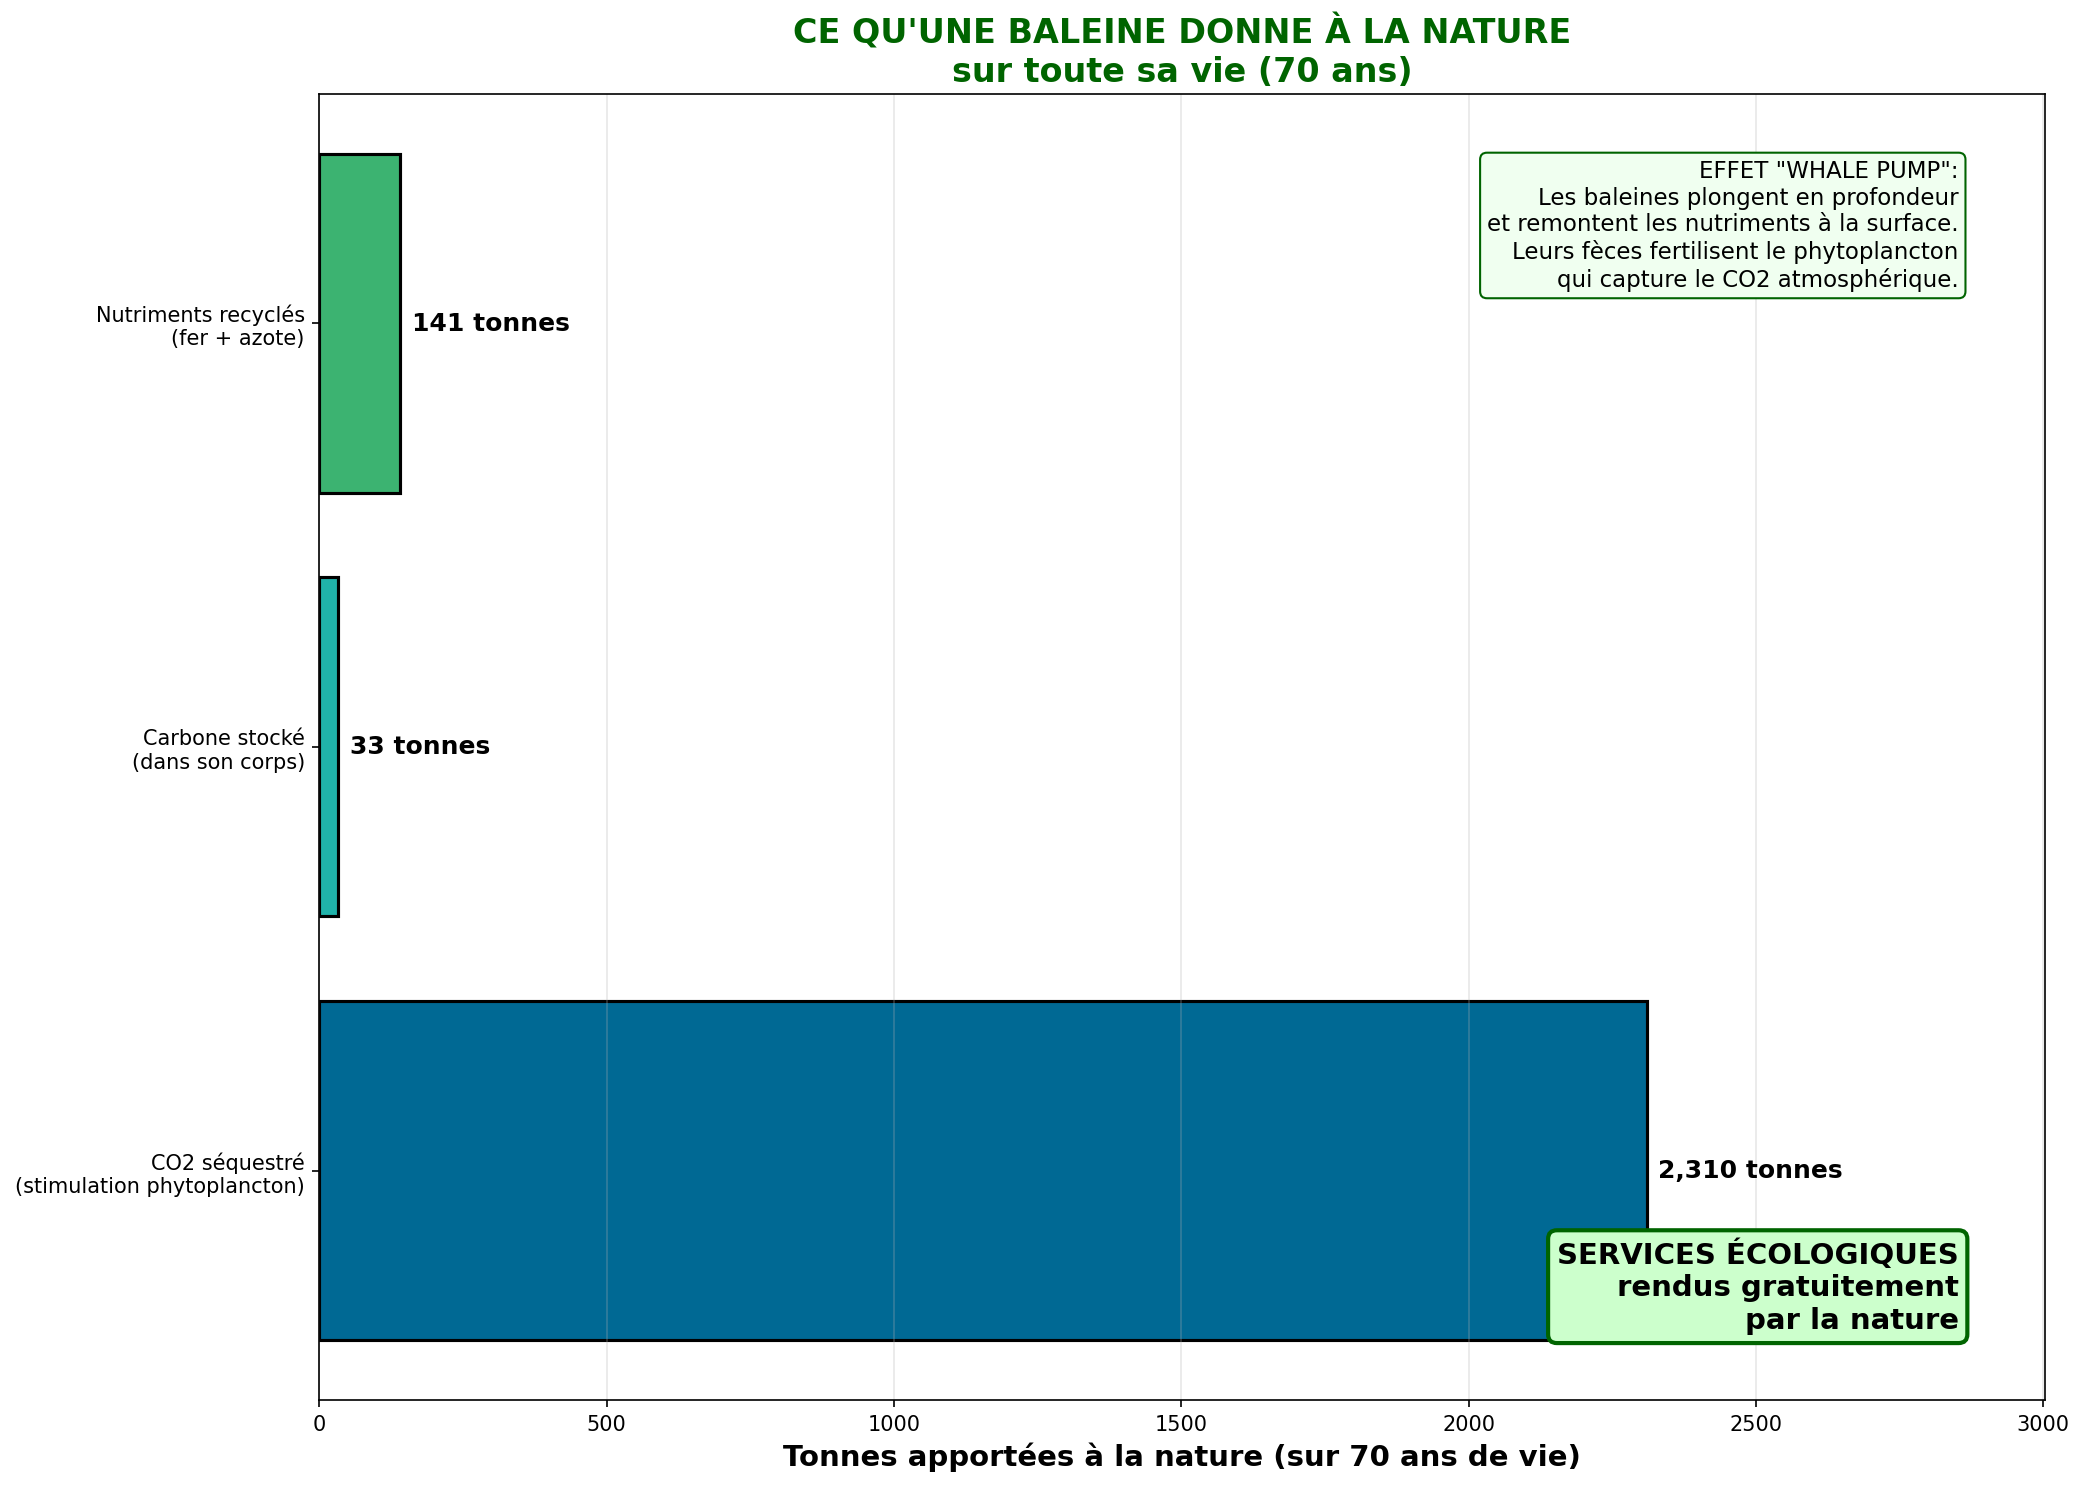
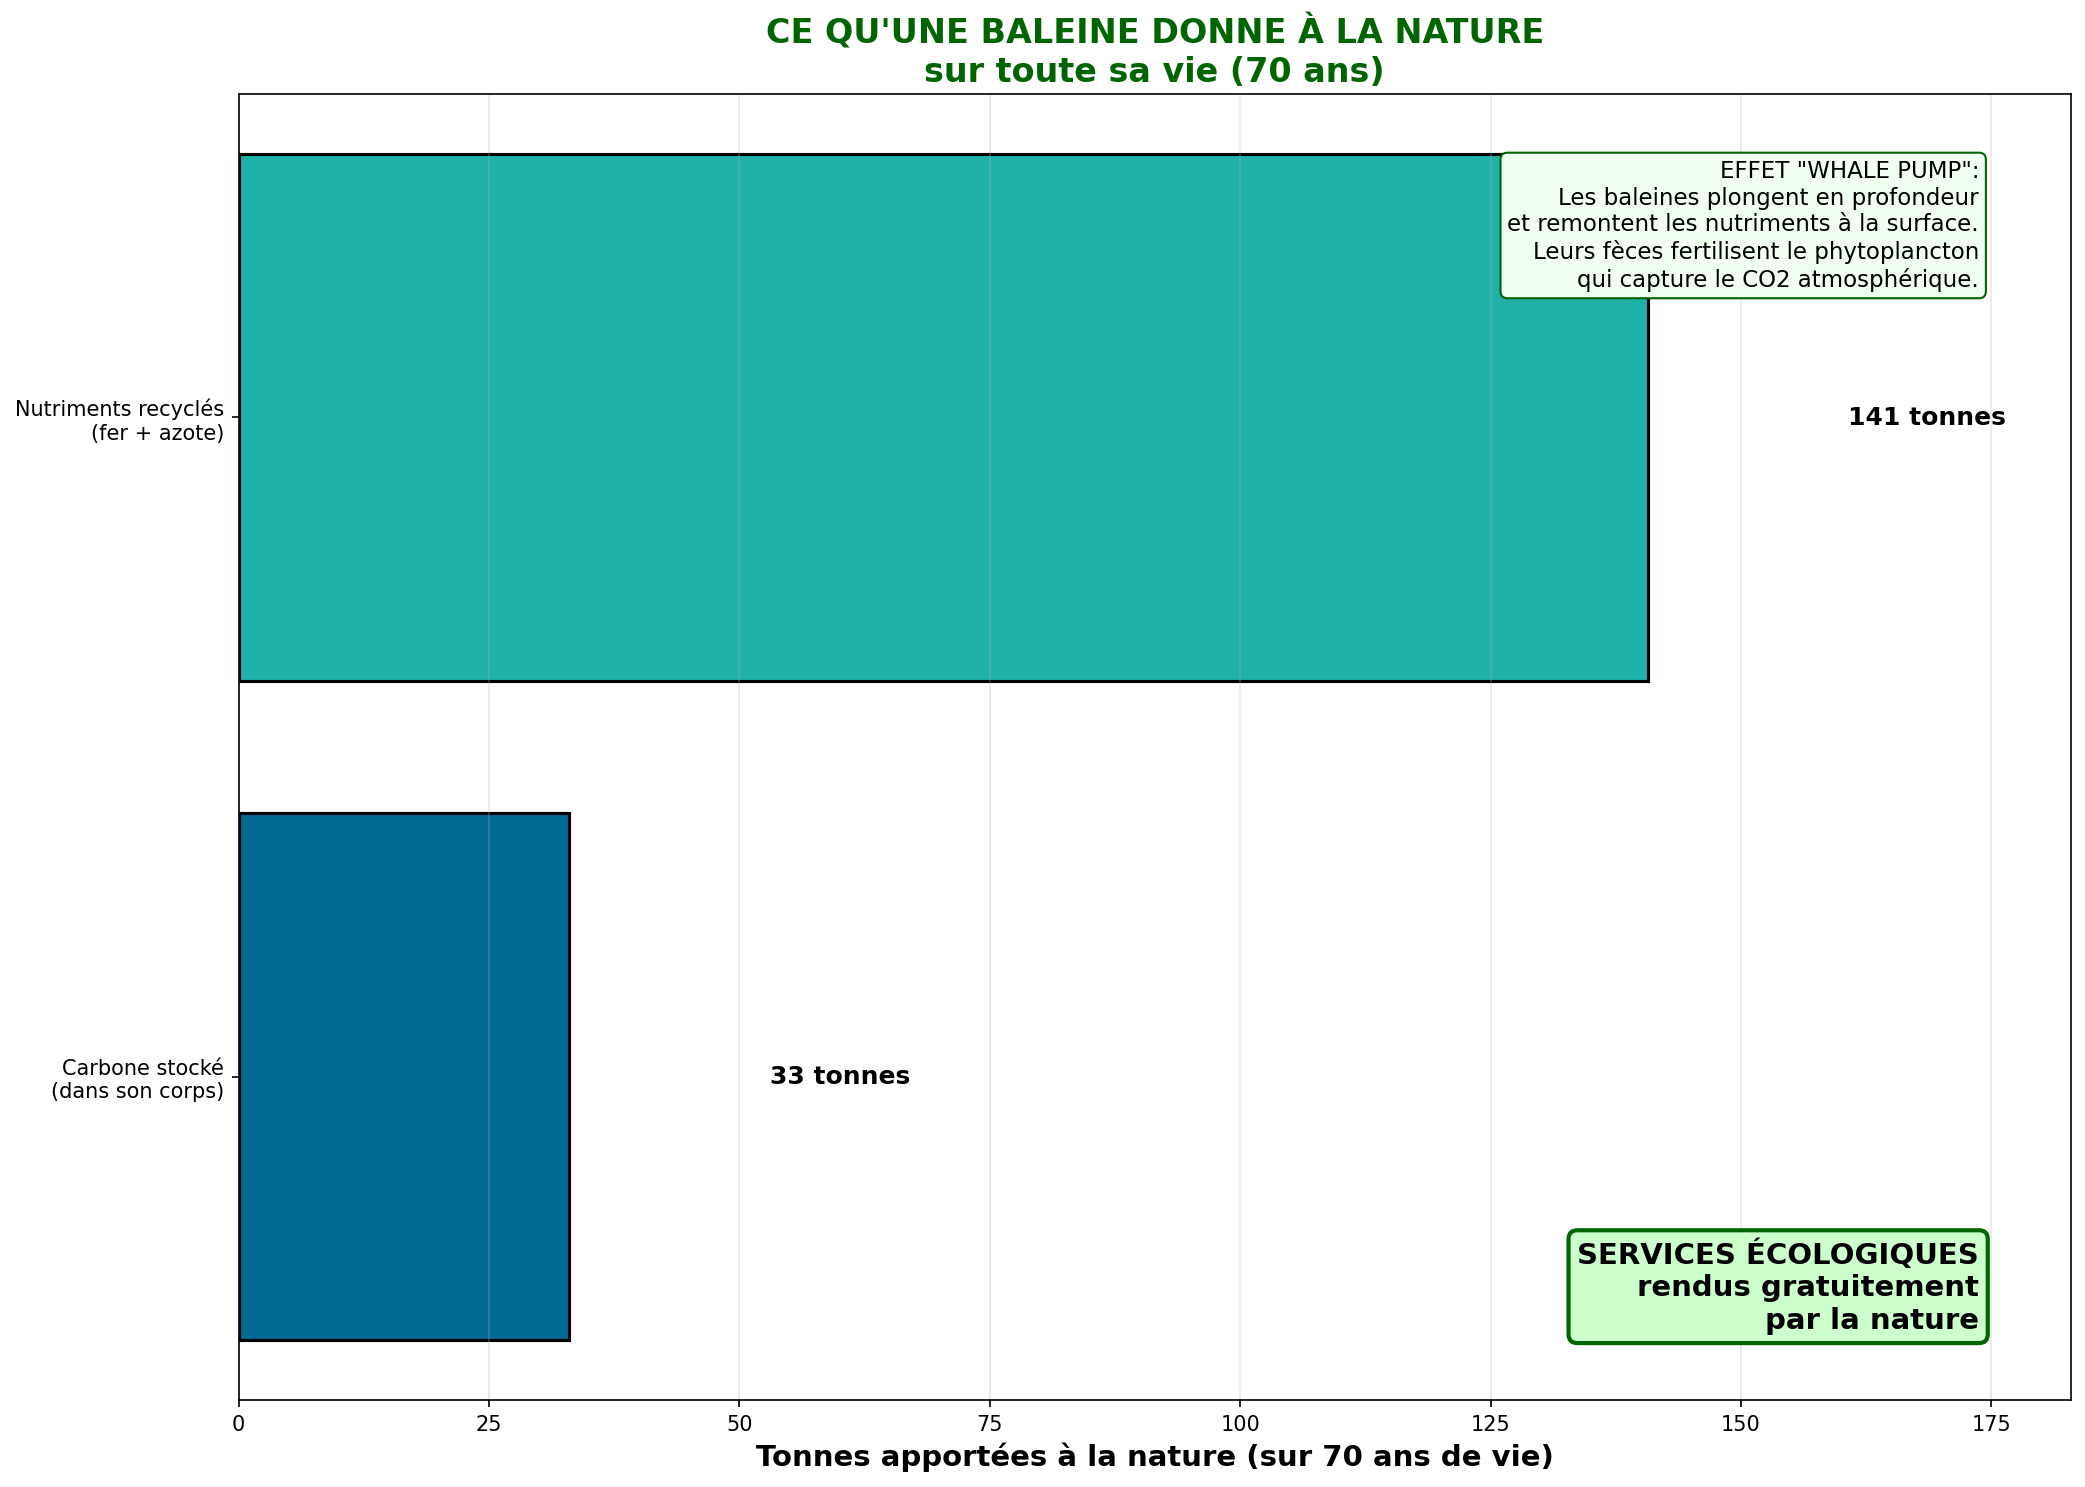
Corrige le calcul errone voiture vs baleine (385 -> 5,5 voitures)
Les 33 tonnes de carbone stocke par une baleine (IMF, Chami et al. 2019)
etaient un total sur toute la vie, pas un taux annuel x 70 ans comme
affiche precedemment. Ratio correct : 33 000 kg / 6 000 kg = 5,5
voitures. Conclusion reecrite (1,3M baleines, 43 Mt stockees vs 37,4 Gt
d'emissions mondiales annuelles) et encart de correction ajoute en bas
de page.

diff --git a/voiture_baleine.html b/voiture_baleine.html
@@ -8,13 +8,13 @@
     <meta name="robots" content="index, follow">
     <meta property="og:type" content="article">
     <meta property="og:site_name" content="Climat & Environnement">
-    <meta property="og:title" content="Voiture vs Baleine - 1 baleine = 385 voitures en CO2">
-    <meta property="og:description" content="Une baleine capture autant de CO2 que 385 voitures sur sa vie. Comparaison de l'impact ecologique industrie vs nature.">
+    <meta property="og:title" content="Voiture vs Baleine - 1 baleine = 5,5 voitures en CO2">
+    <meta property="og:description" content="Une baleine compense le CO2 de fabrication d'environ 5,5 voitures sur sa vie. Comparaison de l'impact ecologique industrie vs nature.">
     <meta property="og:url" content="https://gaby-ridaya.github.io/Climat/voiture_baleine.html">
     <meta property="og:image" content="https://gaby-ridaya.github.io/Climat/images/graph3_comparaison.png">
     <meta name="twitter:card" content="summary_large_image">
-    <meta name="twitter:title" content="Voiture vs Baleine - 1 baleine = 385 voitures en CO2">
-    <meta name="twitter:description" content="Une baleine capture autant de CO2 que 385 voitures sur sa vie. Comparaison de l'impact ecologique industrie vs nature.">
+    <meta name="twitter:title" content="Voiture vs Baleine - 1 baleine = 5,5 voitures en CO2">
+    <meta name="twitter:description" content="Une baleine compense le CO2 de fabrication d'environ 5,5 voitures sur sa vie. Comparaison de l'impact ecologique industrie vs nature.">
     <meta name="twitter:image" content="https://gaby-ridaya.github.io/Climat/images/graph3_comparaison.png">
     <link rel="canonical" href="https://gaby-ridaya.github.io/Climat/voiture_baleine.html">
     <link rel="stylesheet" href="style.css">
@@ -60,7 +60,7 @@
 
                 <div class="warning-box">
                     <strong>Chiffre cle :</strong> Une baleine, sur sa vie de 70 ans, compense
-                    le CO2 de fabrication de <strong>385 voitures</strong>.
+                    le CO2 de fabrication d'environ <strong>5,5 voitures</strong>.
                 </div>
             </section>
 
@@ -151,12 +151,8 @@
                             <td>33 tonnes par baleine</td>
                         </tr>
                         <tr>
-                            <td>CO2 capture (vie entiere)</td>
-                            <td>2 310 tonnes</td>
-                        </tr>
-                        <tr>
                             <td>Valeur economique estimee</td>
-                            <td>2 millions USD</td>
+                            <td>2 millions USD (carbone, ecotourisme et peche, sur la vie entiere - methode IMF)</td>
                         </tr>
                         <tr>
                             <td>Stimulation phytoplancton</td>
@@ -182,9 +178,12 @@
                     <strong>Calcul :</strong>
                     <ul style="margin-top: 10px; margin-left: 20px;">
                         <li>CO2 fabrication voiture : 6 000 kg</li>
-                        <li>CO2 capture par baleine (70 ans) : 2 310 000 kg</li>
-                        <li>Ratio : 2 310 000 / 6 000 = <strong>385 voitures</strong></li>
+                        <li>Carbone stocke par une baleine (vie entiere, corps) : 33 000 kg</li>
+                        <li>Ratio : 33 000 / 6 000 = <strong>5,5 voitures</strong></li>
                     </ul>
+                    <p style="margin-top: 10px;">
+                        Avec l'hypothese haute de 8 tonnes de CO2 par voiture (ADEME), le ratio tombe a 4,1 voitures.
+                    </p>
                 </div>
             </section>
 
@@ -206,20 +205,37 @@
                 <h2>Le message</h2>
 
                 <div class="success-box">
-                    <strong>Conclusion :</strong> Plutot que de fabriquer toujours plus de voitures,
-                    proteger les baleines et les ecosystemes marins serait bien plus efficace
-                    pour lutter contre le changement climatique. La nature offre des solutions
-                    gratuites et auto-entretenues.
+                    <strong>Conclusion :</strong> Il reste aujourd'hui environ 1,3 million de grandes
+                    baleines sur Terre (IMF, Chami et al., 2019). Leur carbone stocke represente au
+                    total environ 43 millions de tonnes de CO2 (1,3 million x 33 tonnes). Face aux
+                    37,4 milliards de tonnes de CO2 fossile emises chaque annee dans le monde (Global
+                    Carbon Project, 2024), ce stock ne pese presque rien : proteger les baleines est
+                    indispensable pour l'ocean et le phytoplancton, mais cela ne compense en rien nos
+                    emissions.
+                    <br><br>
+                    La vraie image a retenir est celle de la disproportion : un des plus gros animaux
+                    ayant jamais existe, 70 ans de vie, compense la fabrication de 5 voitures - et
+                    l'industrie en fabrique environ 67,7 millions par an, rien qu'en voitures
+                    particulieres (OICA, 2024). Le vrai levier reste de fabriquer moins de voitures.
                 </div>
 
                 <div class="info-box">
                     <strong>A retenir :</strong>
                     <ul style="margin-top: 10px; margin-left: 20px;">
-                        <li>Une baleine = 385 voitures en termes de CO2</li>
-                        <li>Les baleines fertilisent les oceans gratuitement</li>
-                        <li>Proteger la nature coute moins cher que la detruire</li>
-                        <li>Les services ecosystemiques sont sous-evalues</li>
+                        <li>Une baleine = environ 5,5 voitures en CO2 (33 tonnes de carbone stockees, contre 6 tonnes emises par voiture)</li>
+                        <li>Le stock total de carbone de toutes les baleines du monde (~43 millions de tonnes) ne represente qu'une fraction infime des emissions mondiales annuelles (~37,4 milliards de tonnes)</li>
+                        <li>Proteger les baleines reste indispensable pour l'ocean et le phytoplancton, mais ne compense pas nos emissions</li>
+                        <li>Le vrai levier climatique reste de fabriquer moins de voitures</li>
                     </ul>
+                </div>
+
+                <div class="info-box">
+                    <strong>Correction (juillet 2026) :</strong> Cette etude affichait a l'origine
+                    "1 baleine = 385 voitures en CO2", en multipliant les 33 tonnes de carbone stockees
+                    par la baleine (IMF, Chami et al., 2019) par 70 ans de vie, comme si ce chiffre
+                    etait un taux annuel. Or ces 33 tonnes sont deja le total stocke sur toute la vie
+                    de la baleine : le chiffre avait ete compte deux fois. Le ratio correct est
+                    33 000 kg / 6 000 kg = <strong>5,5 voitures</strong>.
                 </div>
             </section>
 
@@ -230,9 +246,11 @@
                     <li><a href="https://worldsteel.org/steel-topics/steel-markets/automotive/" target="_blank">World Steel Association</a> - Acier automobile</li>
                     <li><a href="https://european-aluminium.eu/" target="_blank">European Aluminium</a> - Aluminium automobile</li>
                     <li><a href="https://www.ademe.fr/" target="_blank">ADEME</a> - Bilan carbone vehicules</li>
-                    <li><a href="https://www.imf.org/external/pubs/ft/fandd/2019/12/natures-solution-to-climate-change-chami.htm" target="_blank">IMF 2019</a> - Valeur des baleines</li>
+                    <li><a href="https://www.imf.org/external/pubs/ft/fandd/2019/12/natures-solution-to-climate-change-chami.htm" target="_blank">IMF 2019</a> - Valeur des baleines, population mondiale (~1,3 million)</li>
                     <li><a href="https://doi.org/10.1371/journal.pone.0013255" target="_blank">Roman & McCarthy 2010</a> - The Whale Pump</li>
                     <li><a href="https://www.usgs.gov/" target="_blank">USGS</a> - Donnees minieres</li>
+                    <li><a href="https://globalcarbonbudget.org/fossil-fuel-co2-emissions-increase-again-in-2024/" target="_blank">Global Carbon Project 2024</a> - Emissions mondiales de CO2 fossile (37,4 Gt)</li>
+                    <li><a href="https://oica.net/production-statistics/" target="_blank">OICA 2024</a> - Production mondiale de voitures particulieres (67,7 millions)</li>
                 </ul>
             </div>
 
